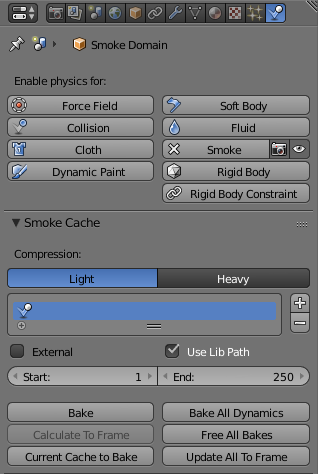
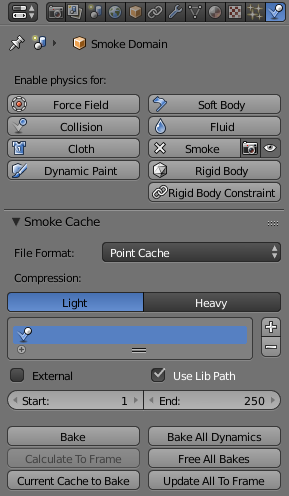
Update smoke baking docs with OpenVDB

diff --git a/blender_docs/manual/physics/smoke/baking.rst b/blender_docs/manual/physics/smoke/baking.rst
@@ -8,10 +8,55 @@ Baking Smoke Simulations
 
    *Smoke Cache* options.
 
+
 :term:`Baking` is used to store the outcome of a simulation so it doesn't need to be recalculated.
 
 Smoke baking settings are in :menuselection:`Properties --> Physics --> Smoke --> Smoke Cache`.
-See :doc:`Baking </physics/baking>` for more information.
+Unlike most physics simulations smoke physics has some settings that are specific to smoke.
+
+File Format
+   File format that the cache data is to be stored.
+
+   Point Cache
+      Blender's own caching format.
+   OpenVDB
+      Advanced and efficient storage method developed by
+      `DreamWorks Animation <http://www.dreamworksanimation.com/>`_
+
+      The simulation fields can be found in the ``.vdb`` files under the following names:
+
+      - "color"
+      - "density"
+      - "heat"
+      - "heat old" (the temperate at the previous fame)
+      - "flame"
+      - "fuel"
+      - "react" (reaction coordinates, used for fire)
+      - "velocity"
+      - "shadow" (the shadows of the volume computed for viewport rendering)
+      - "texture coordinates" (used for turbulence) 
+
+      Compression
+         Method of data compression.
+
+         Zip
+            Efficient but slower compression method.
+         Blosc
+            Multi-threaded compression with about the same quality and size as ``Zip``.
+         None
+            Do not compress the data.
+
+      Data Depth
+         Bit depth for writing all scalar (including vectors), lower values reduce the file size of the cache.
+
+         Float (Half)
+            Half float (16 bit data). Gives less data with the benefit of smaller file sizes.
+         Float (Full)
+            Full float (32 bit data). Gives more data at the cost of larger file sizes.
+
+.. seealso::
+
+   For other options see the :doc:`General Baking </physics/baking>` docs for more information.
 
 .. note::
 
